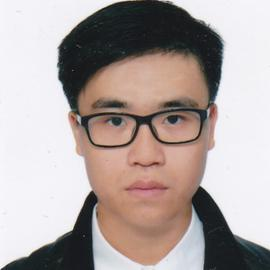
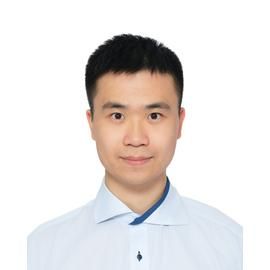
before adaption

diff --git a/index.html b/index.html
@@ -1541,6 +1541,25 @@ Lorem ipsum dolor sit amet, consectetur adipiscing elit. Sed neque elit, tristiq
 
           <div class="col-12 col-lg-8">
 
+          <div class="card-simple">
+              <div class="article-metadata">
+                <span class="article-date">
+                  2026
+                </span>
+                <span class="middot-divider"></span>
+                <span class="pub-publication">
+                </span>
+              </div>
+              <div class="section-subheading article-title mb-1 mt-3">
+                <a> FAiLGen: Calibrating LLM for Failing Test Generation with Monte Carlo Tree Search.</a>
+              </div>
+              <a>
+                <div class="article-style">
+                  <p><b>Tsz-On Li</b>, Xiaochuan Yan, Dehui Yi, Yuhang Jiang, Kexin Li, Congying Xu, Ying Wang, Shing-Chi Cheung . FAiLGen: Calibrating LLM for Failing Test Generation with Monte Carlo Tree Search. ASE 2026, 1-13, October 2026, Germany.</p>
+                </div>
+              </a>
+            </div>
+
 
 
             <div class="card-simple">
